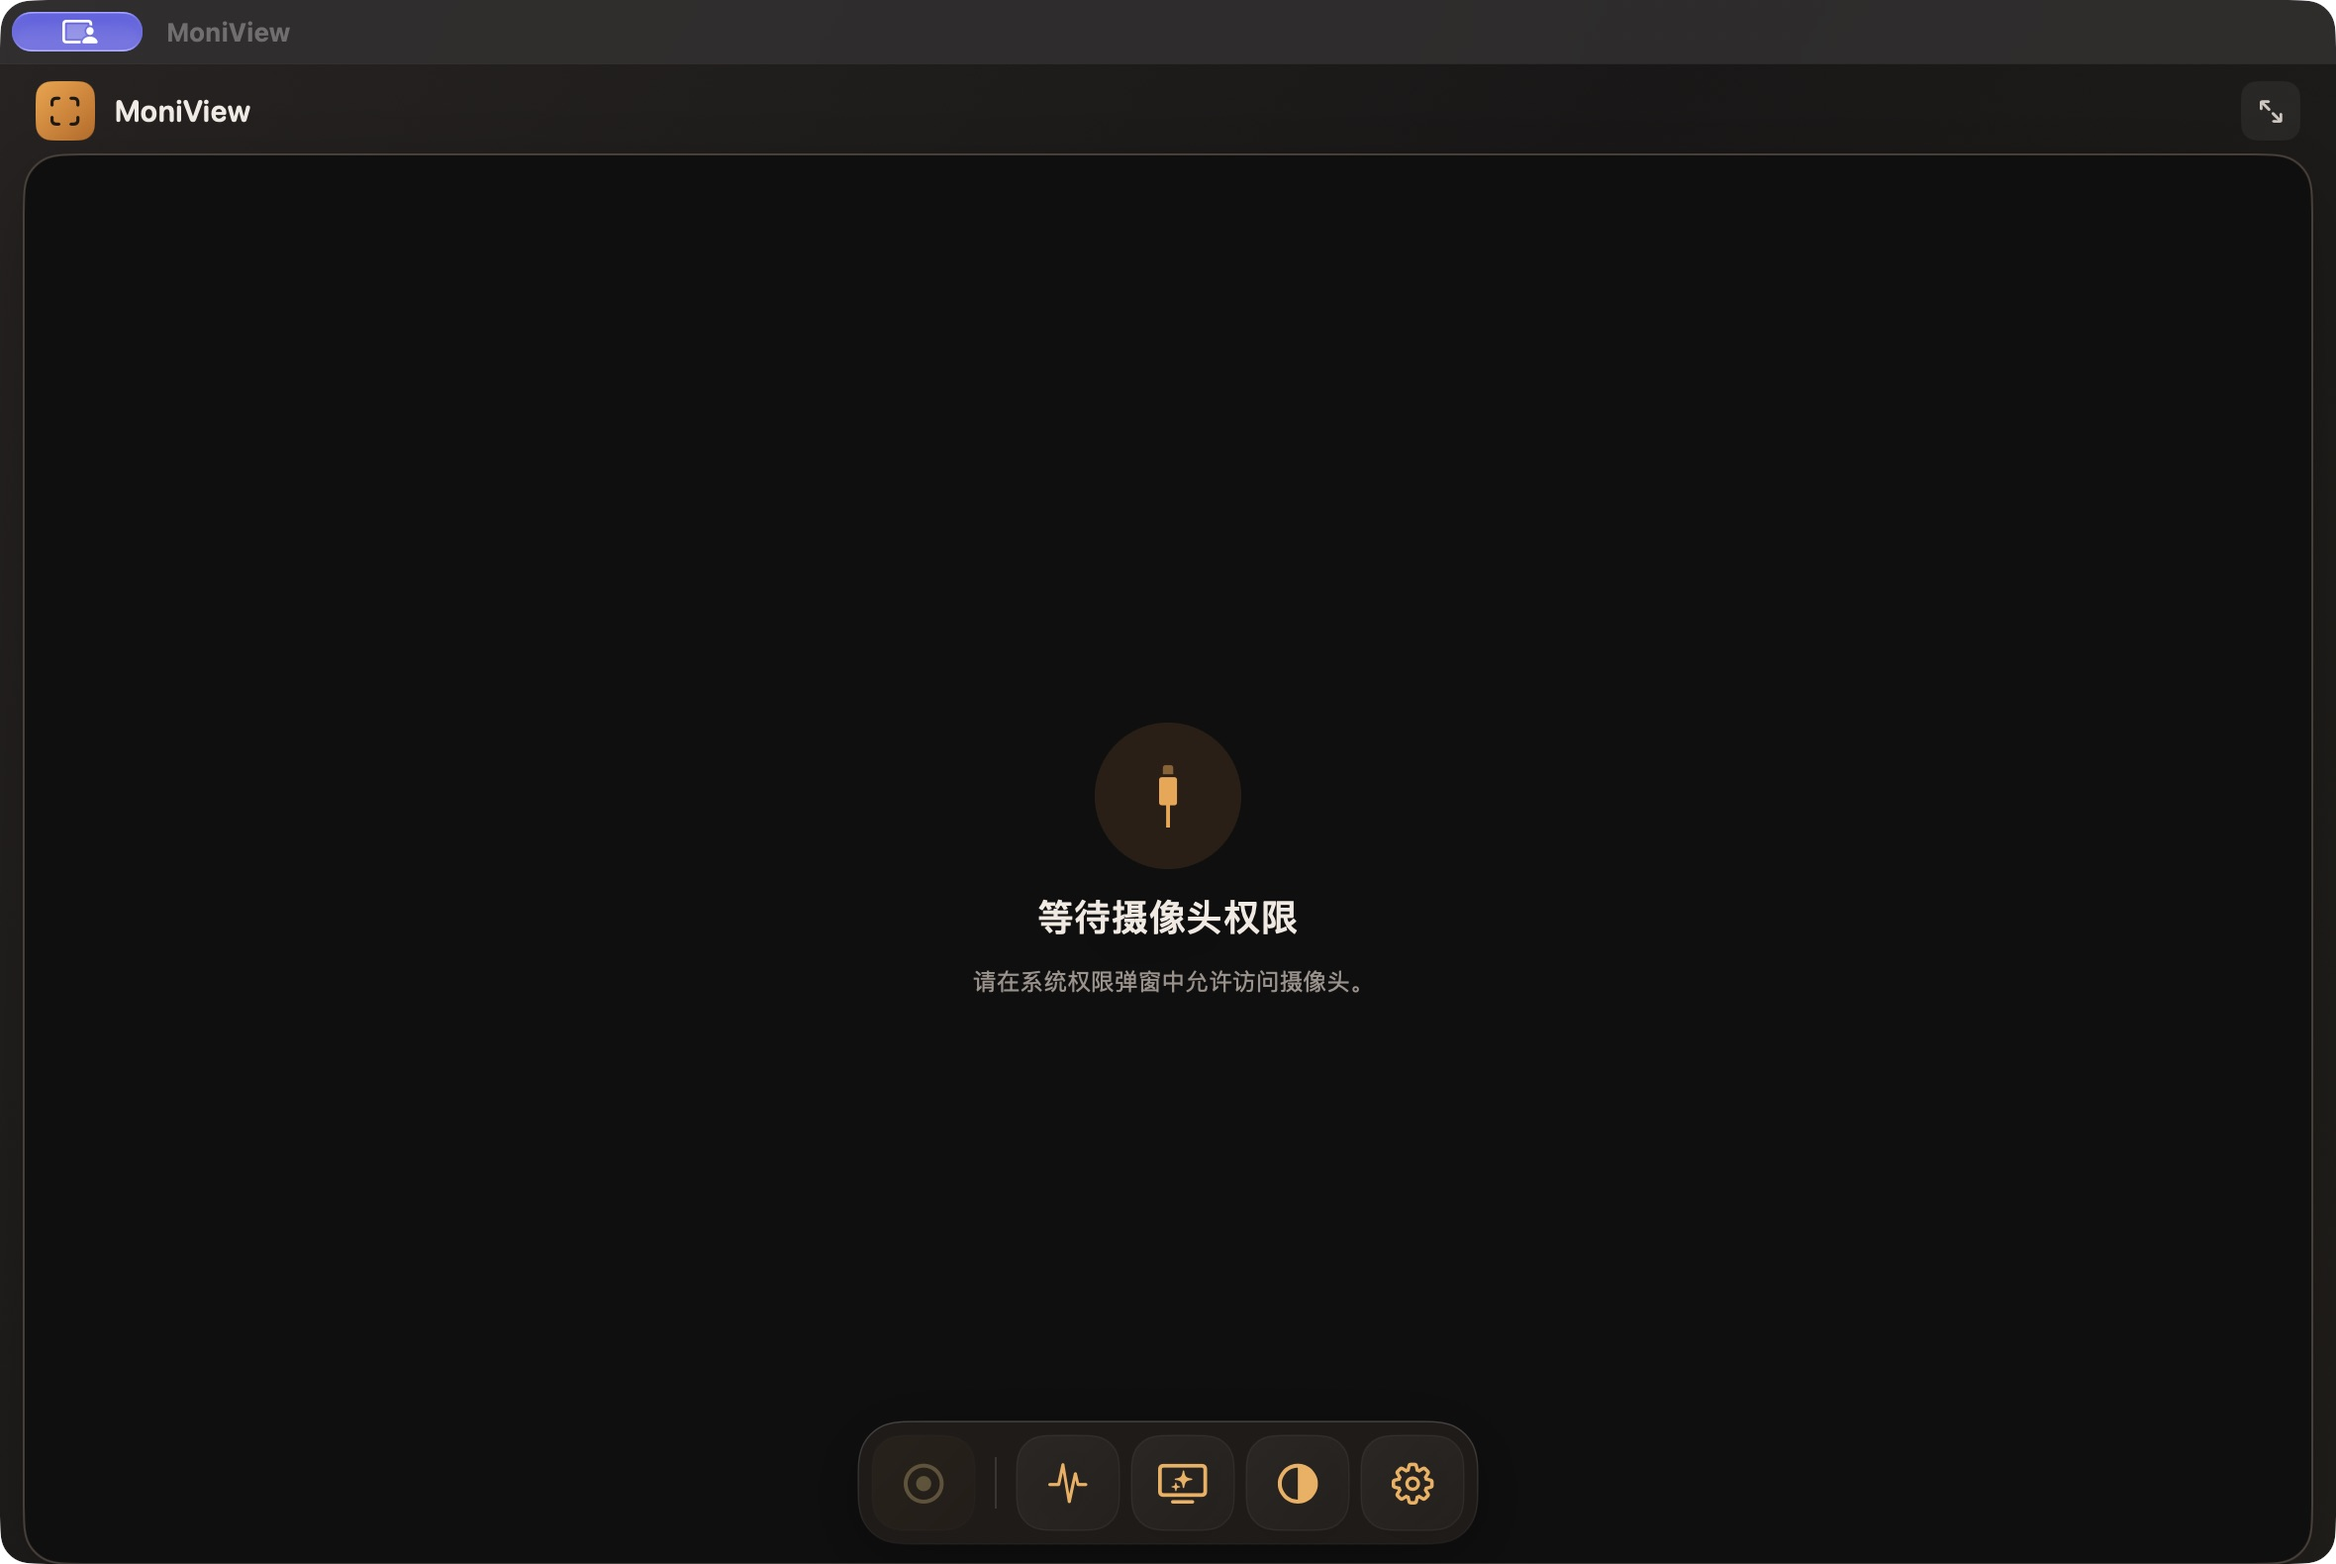
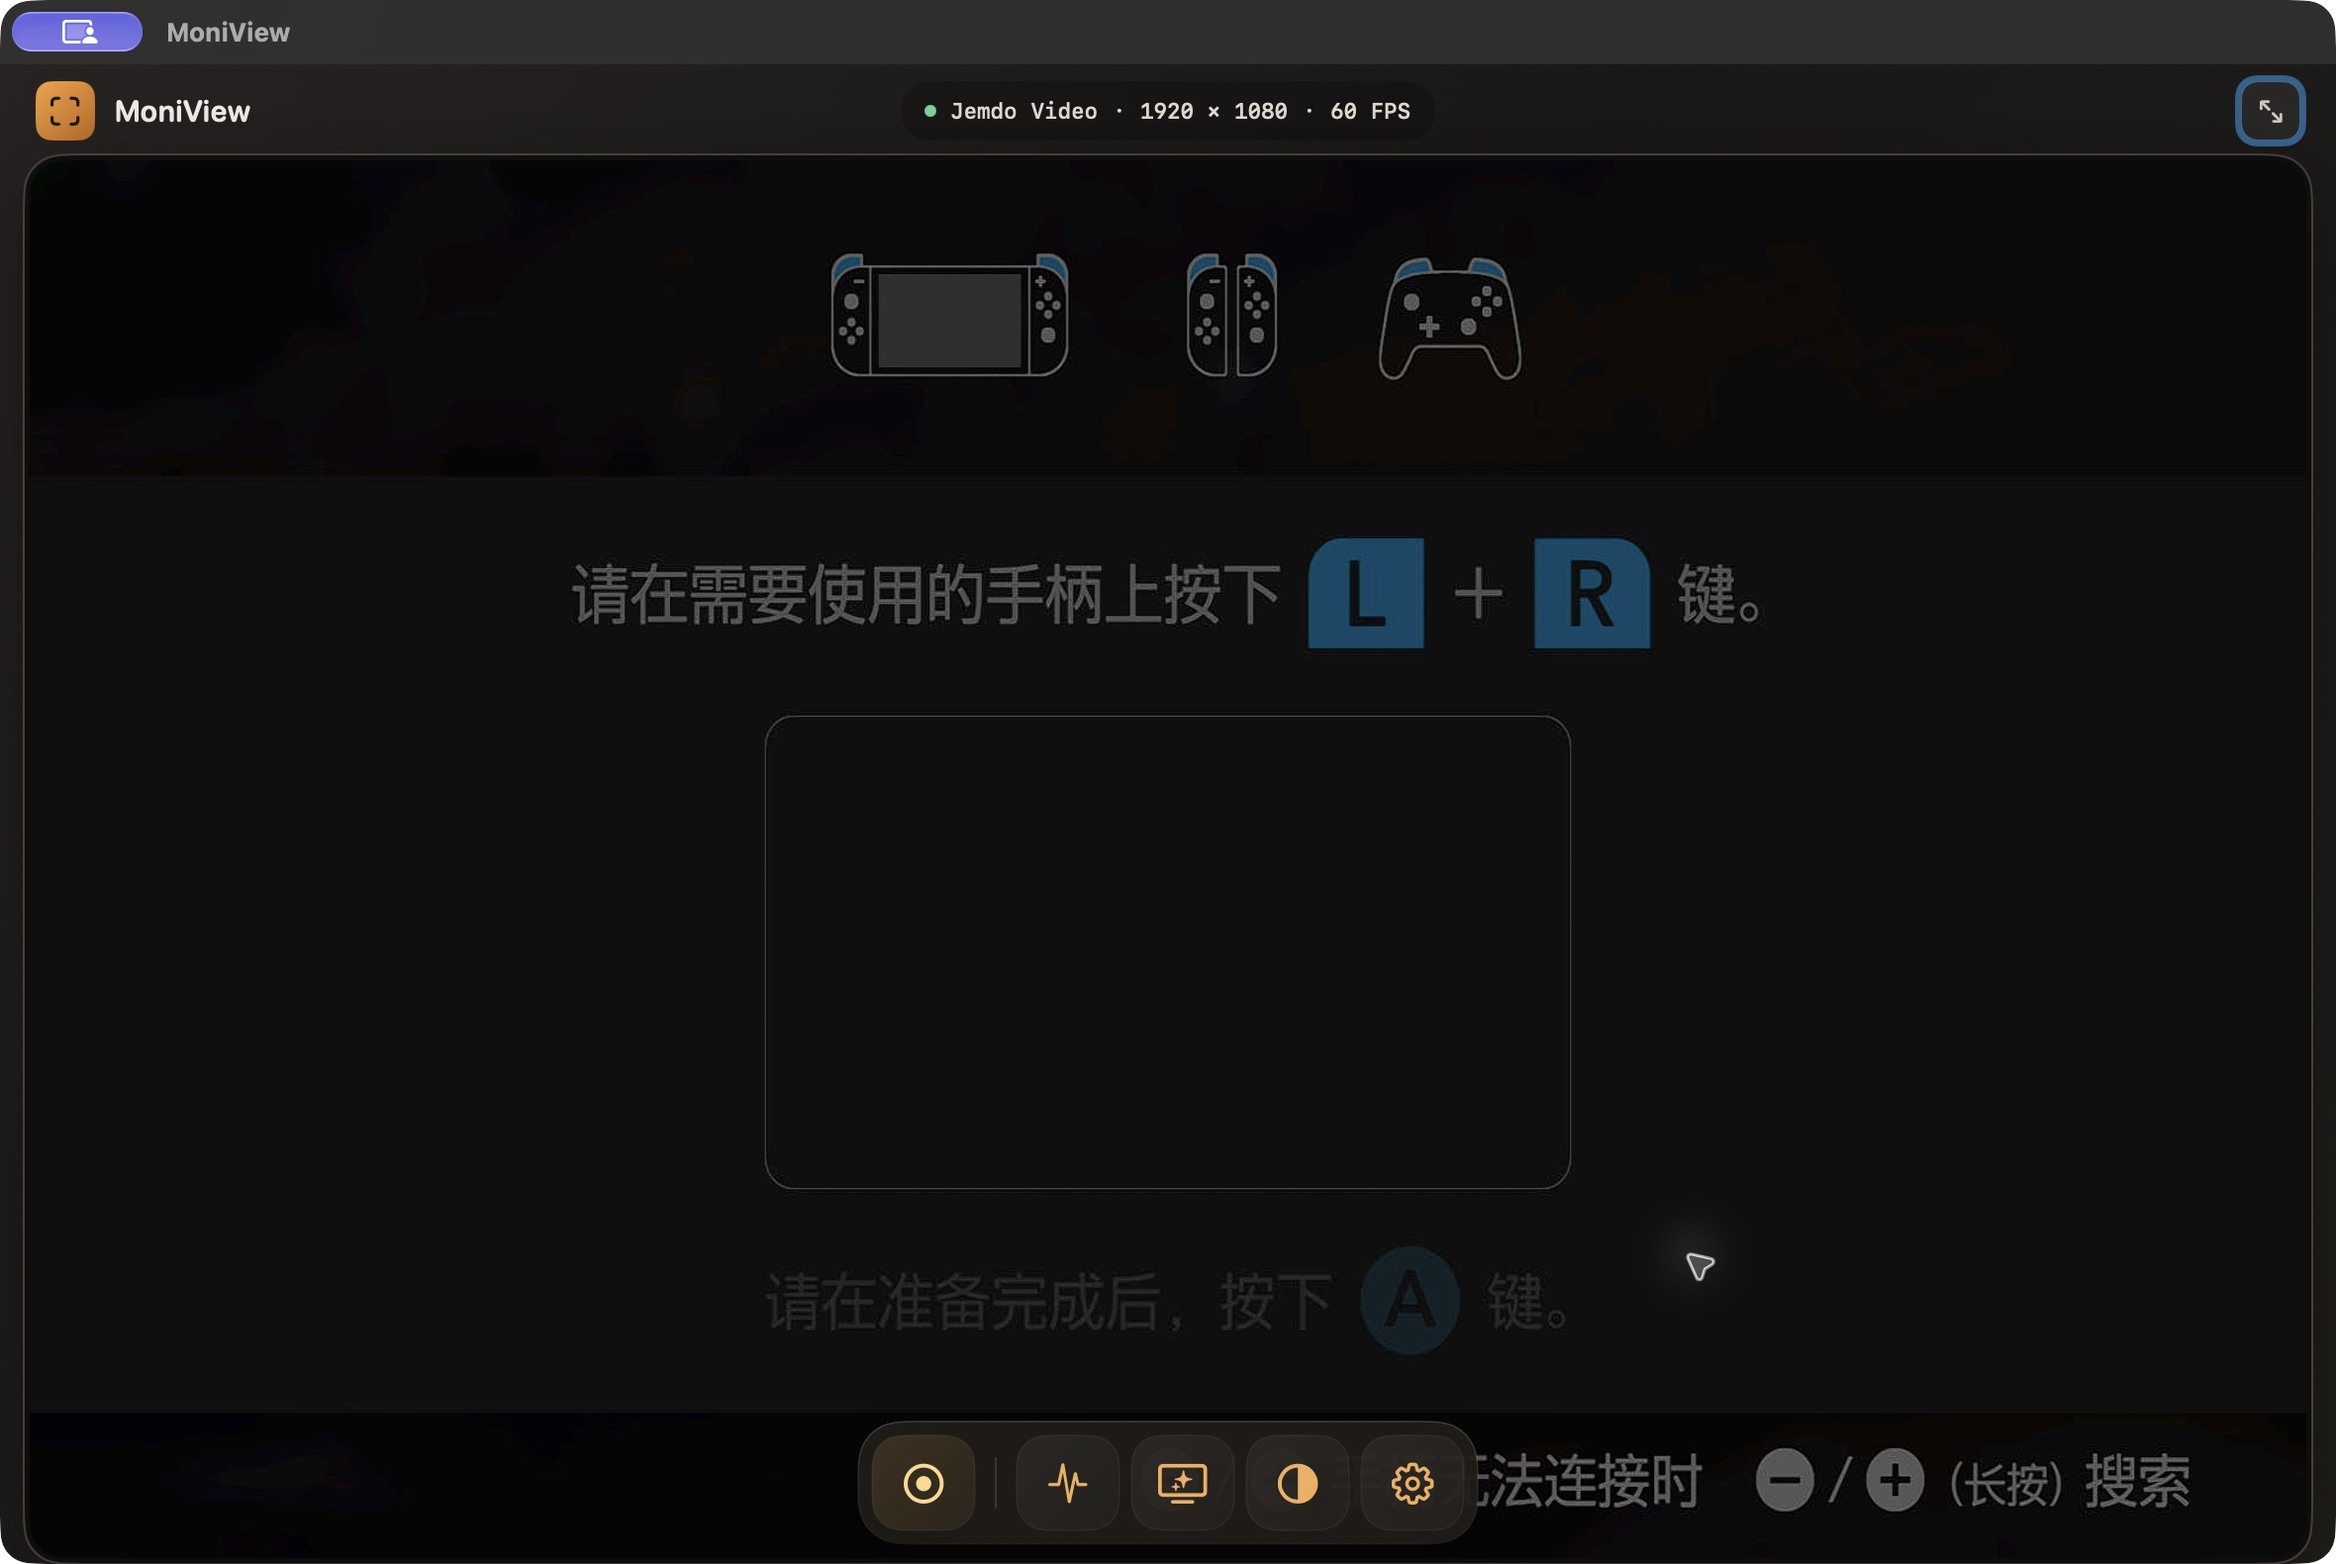
fix: align settings controls and support older macOS SDKs

diff --git a/Sources/MoniView/MainView.swift b/Sources/MoniView/MainView.swift
@@ -547,11 +547,12 @@ struct MainView: View {
             .padding(12)
             .background(Color.black.opacity(0.2), in: RoundedRectangle(cornerRadius: 12))
 
-            Toggle("录制预览色彩和锐化", isOn: $capture.recordIncludesPicture)
-                .toggleStyle(.switch).font(.system(size: 11)).disabled(capture.isRecording)
-            Toggle("显示设备状态", isOn: $capture.showsStatusBar)
-                .toggleStyle(.switch)
-                .font(.system(size: 11))
+            VStack(spacing: 14) {
+                settingsToggle("录制预览色彩和锐化", isOn: $capture.recordIncludesPicture)
+                    .disabled(capture.isRecording)
+                settingsToggle("显示设备状态", isOn: $capture.showsStatusBar)
+            }
+            .padding(.horizontal, 12)
             HStack(spacing: 8) {
                 Image(systemName: "info.circle")
                 Text("分辨率和帧率受采集卡硬件限制。")
@@ -643,6 +644,18 @@ struct MainView: View {
                 .frame(width: 42, alignment: .trailing)
             Slider(value: value, in: range)
                 .tint(Color(hex: 0xec8718))
+        }
+    }
+
+    private func settingsToggle(_ title: String, isOn: Binding<Bool>) -> some View {
+        HStack(spacing: 8) {
+            Text(L10n.text(title))
+                .font(.system(size: 11))
+            Spacer(minLength: 8)
+            Toggle(L10n.text(title), isOn: isOn)
+                .labelsHidden()
+                .toggleStyle(.switch)
+                .fixedSize()
         }
     }
 

diff --git a/Sources/MoniView/CaptureManager.swift b/Sources/MoniView/CaptureManager.swift
@@ -216,7 +216,8 @@ final class CaptureManager: NSObject, ObservableObject, AVCaptureVideoDataOutput
             if self.session.canAddOutput(self.audioPreview) { self.session.addOutput(self.audioPreview) }
             self.session.commitConfiguration()
         }
-        for name in [AVCaptureDevice.wasConnectedNotification, AVCaptureDevice.wasDisconnectedNotification] {
+        // The Swift constant names changed in newer SDKs; the notification names are stable.
+        for name in [Notification.Name("AVCaptureDeviceWasConnectedNotification"), Notification.Name("AVCaptureDeviceWasDisconnectedNotification")] {
             observers.append(NotificationCenter.default.addObserver(forName: name, object: nil, queue: .main) { [weak self] _ in self?.refreshDevices(force: false) })
         }
         observers.append(NotificationCenter.default.addObserver(forName: .AVCaptureSessionRuntimeError, object: session, queue: .main) { [weak self] note in

diff --git a/docs/PERFORMANCE.md b/docs/PERFORMANCE.md
@@ -17,6 +17,8 @@ One windowed 720p60 sample with MetalFX enabled reported 60 capture FPS, 60 rend
 
 ## Practical defaults
 
+A roughly one-minute recording at 1080p60 was checked with `ffprobe`: H.264 at 60 FPS, AAC stereo at 48 kHz and BT.709 color metadata. Setting saturation to zero also produced neutral chroma in decoded frames, confirming that the color setting reached the recording. This checks the recording path on one capture card, not audio playback quality or long-duration reliability.
+
 Use the capture card's native 1080p60 format when available, fit aspect, low latency enabled and mild enhancement. A 2K/4K enhancement target does not turn a 1080p input into native 4K. Try disabling enhancement if rendering falls below capture FPS; change capture resolution only when the device/USB link is the limiting factor.
 
 ## 中文
@@ -26,6 +28,8 @@ Use the capture card's native 1080p60 format when available, fit aspect, low lat
 在 Jemdo Video + Apple M5 Max 上手动确认过 720p/1080p 实际缓冲切换、30/60 FPS 间隔生效。一段 720p60、MetalFX 开启的窗口模式快照显示采集/渲染均为 60 FPS、采集丢帧 0、回调至 GPU 完成约 4.1 ms、GPU 执行约 1.7 ms。它只是单秒快照，不代表完整输入延迟，也不保证其他设备取得同样结果。
 
 建议默认使用采集卡支持的原生 1080p60、适应画面、低延迟和温和增强。2K/4K 是 GPU 放大目标，低延迟模式按显示尺寸限制处理，不改变真实输入分辨率。渲染帧率不足时优先关闭增强；设备或 USB 带宽受限时再降低采集分辨率。
+
+约一分钟的 1080p60 录制经 `ffprobe` 检查为 H.264 60 FPS、AAC 48 kHz 双声道、BT.709 色彩元数据。将饱和度设为零后，解码帧的色度也呈中性，确认色彩设置写入录制。这只验证一张采集卡的录制路径，不代表已验证听感或长时间稳定性。
 
 ## References
 

diff --git a/docs/images/README.md b/docs/images/README.md
@@ -1,8 +1,8 @@
 # Screenshots
 
-The READMEs currently reference an actual screenshot of MoniView awaiting camera permission. Captions must describe the visible state accurately; no screenshot may contain fabricated values.
+The READMEs reference actual screenshots of MoniView connected to a Jemdo Video capture card. Captions must describe the visible state accurately; no screenshot may contain fabricated values.
 
-- `moniview-window.png`: current window awaiting camera authorization. Replace it with an authorized live preview when available and update both README captions together.
-- `moniview-controls.png`: planned screenshot of the actual settings panel; add it to both READMEs only after the file is captured.
+- `moniview-window.png`: live preview with the brief source status line.
+- `moniview-controls.png`: capture settings with aligned controls.
 
 Before committing a screenshot, remove capture card serial numbers, device identifiers, private file paths, usernames, and any diagnostic text that should not be public. Because these images are referenced by both README.md and README.zh-CN.md, add the real files here rather than linking to an external host.

diff --git a/README.md b/README.md
@@ -31,9 +31,11 @@ MoniView turns a USB (UVC) capture card into a low-latency monitor window for an
 
 ## Screenshots
 
-![MoniView window awaiting camera permission](docs/images/moniview-window.png)
+![MoniView live preview window](docs/images/moniview-window.png)
 
-This screenshot shows the actual app awaiting macOS camera permission. It illustrates the current window and controls, not a live capture or a performance benchmark. Live preview and settings screenshots will be added after hardware authorization and verification.
+![MoniView capture settings](docs/images/moniview-controls.png)
+
+These screenshots show the actual app connected to a Jemdo Video capture card. On-screen values depend on the connected device and are not performance benchmarks.
 
 ## Build and run
 
